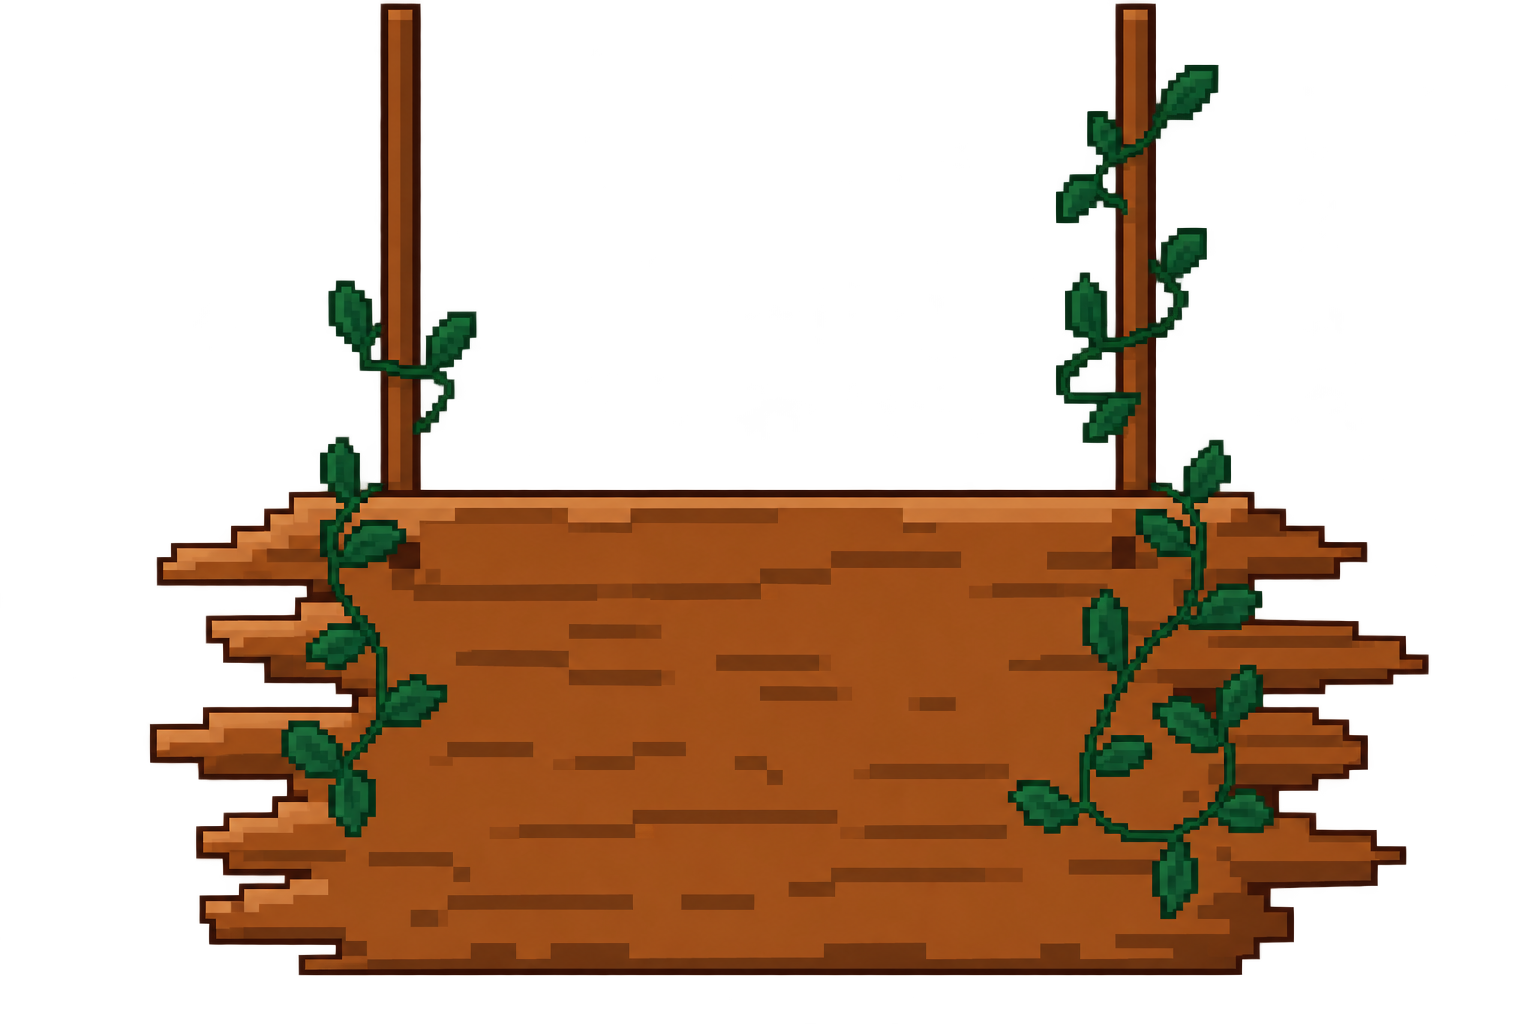
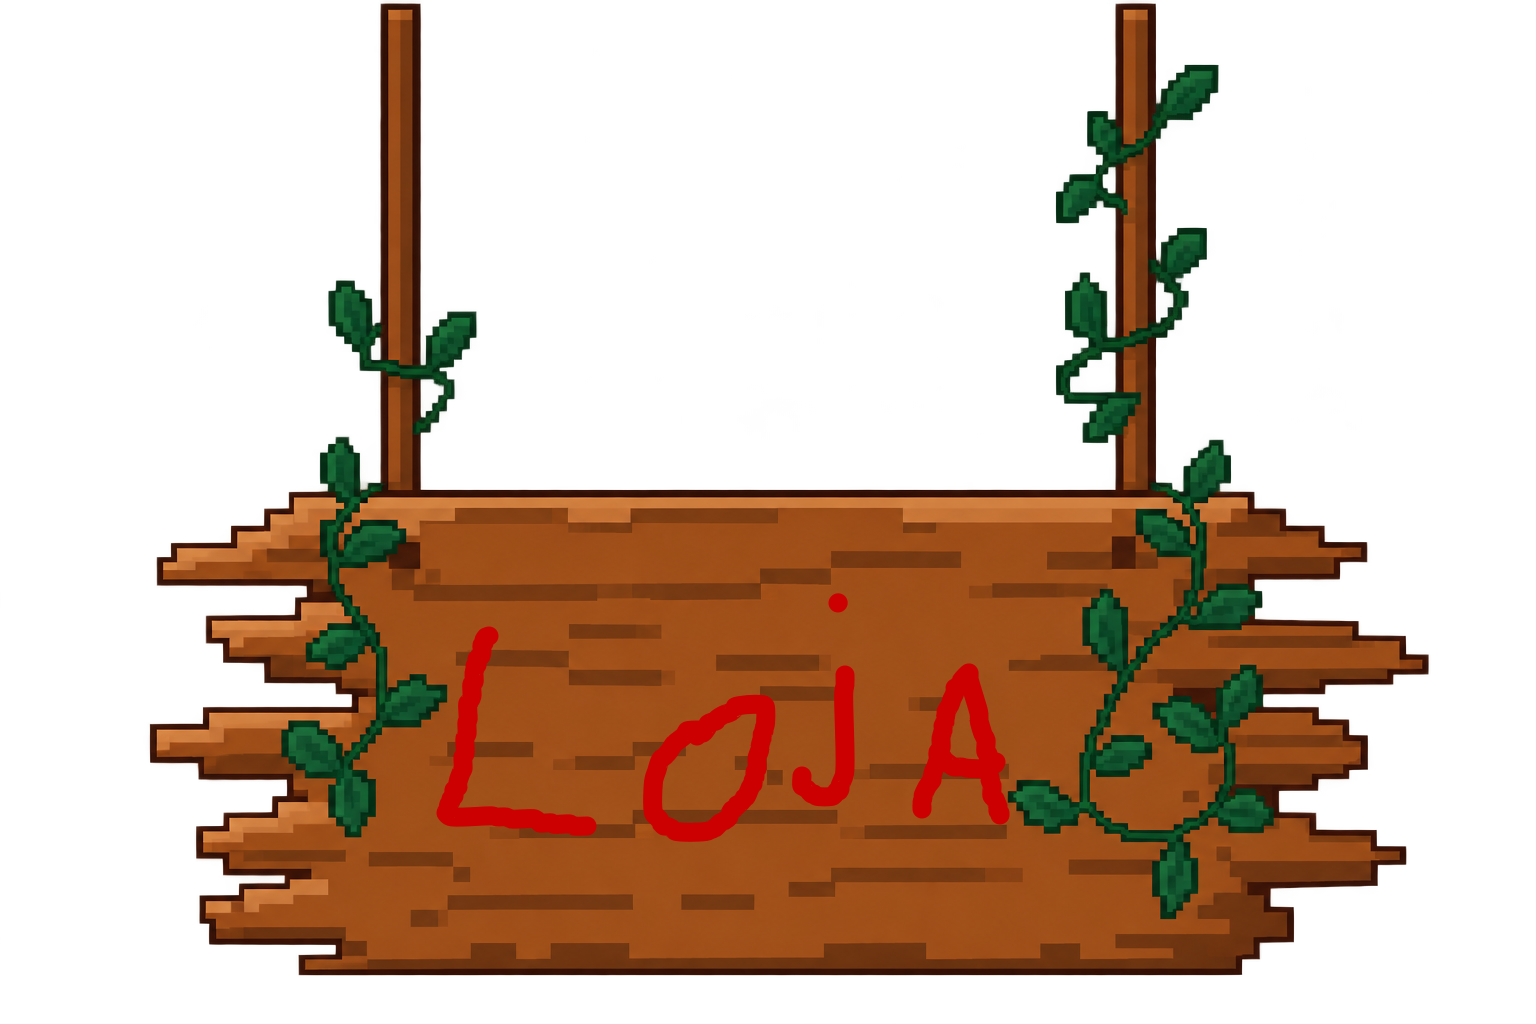
feat(loja): update layout and functionality for money display and cart management

Changed region(s): [[0.2812, 0.5938, 0.5625, 0.8438], [0.5938, 0.6562, 0.6562, 0.8125], [0.5312, 0.5625, 0.5625, 0.5938]]

diff --git a/frontend/js/entities/view/LojaView.js b/frontend/js/entities/view/LojaView.js
@@ -1,41 +1,42 @@
-import Produto from "../Produto.js";
+import Produto from "../Produto.js";
 
 export default class LojaView {
     #produtos;
     #carrinho;
     #dinheiroUsuario;
+    #valorCarrinho;
 
     constructor(loja_id, dinheiro) {
-        this.inicializar(loja_id);
         this.#dinheiroUsuario = dinheiro;
+        this.inicializar(loja_id);
     }
 
     async inicializar(id) {
         this.#produtos = await Produto.listaProdutosByLojaId(id);
         this.carregarMercadoria();
-        this.#carrinho = []
+        this.#carrinho = [];
+        this.#valorCarrinho = 0;
 
-        document.getElementById('dinheiro').innerHTML = `
-                <div>
-                    <p>
-                        ${this.#dinheiroUsuario}
-                    </p>
-                </div>
-                <img src="../../../images/moeda.png" class="moedaIcon" alt="Moedas">`
-
+        document.getElementById('dinheiro').innerHTML =  this.#dinheiroUsuario;
         this.#produtos.forEach(produto => {
             document.getElementById(`produto-${produto.id}`).addEventListener("click", () => {
                 this.#carrinho.push(produto.id);
-                console.log(this.#carrinho)
+                this.#valorCarrinho += produto.preco;
+                this.atualizarValorCarrinho();
+                console.log(this.#valorCarrinho);
+                console.log(this.#carrinho);
             });
         });
 
         document.querySelector("#botaoLimpar button").addEventListener("click", () => {
-            this.#carrinho = [];
+            this.limparCarrinho()
         })
 
         document.querySelector("#botaoComprar button").addEventListener("click", () => {
             Produto.comprar(this.#carrinho);
+            this.#dinheiroUsuario -= this.#valorCarrinho;
+            this.limparCarrinho();
+            document.getElementById('dinheiro').innerHTML = this.#dinheiroUsuario
         })
     }
 
@@ -66,4 +67,23 @@ export default class LojaView {
             </div>
         `;
     }
+
+    limparCarrinho(){
+        this.#carrinho = [];
+        this.#valorCarrinho = 0;
+        this.atualizarValorCarrinho();
+    }
+
+    atualizarValorCarrinho() {
+        let local = document.querySelector("#valorCarrinho span");
+        local.innerHTML = this.#valorCarrinho;
+
+        if (this.#valorCarrinho > this.#dinheiroUsuario){
+            local.style.color = 'red';
+        }
+        else {
+            local.style.color = 'white';
+        }
+    }
+
 }

diff --git a/frontend/css/loja.css b/frontend/css/loja.css
@@ -13,11 +13,15 @@ body {
 
 main {
     display: flex;
-    position: relative;
+    position: absolute;
+    top: 50%;
+    left:50%;
+    transform: translate(-50%,-50%);
     background-image: url(../images/background/background.png);
     background-size: cover;
     height: var(--main-height);
     width: var(--main-width);
+    border-radius: 6px;
 }
 
 h3 {
@@ -182,7 +186,7 @@ h3 {
     transform: scale(1.05);
 }
 
-#dinheiro {
+#dinheiroContainer {
     display: flex;
     align-items: center;
     gap: 4px;
@@ -190,15 +194,25 @@ h3 {
     top: 16px;
     right: 16px;
 }
-#dinheiro > div {
+#dinheiroContainer > div {
     text-align: end;
     width: 100px;
     height: 20px;
 }
-#dinheiro p {
+#dinheiroContainer p {
     margin: 0;
 }
 
-#dinheiro img {
+#dinheiroContainer img {
     flex-shrink: 0;
 }
+
+#valorCarrinho{
+    display: flex;
+    align-items: center;
+    gap: 4px;
+    position: absolute;
+    bottom: 16px;
+    right: 16px;
+}
+

diff --git a/frontend/pages/loja.html b/frontend/pages/loja.html
@@ -20,12 +20,17 @@
         </div>  
         </div>
         <div id="principal">
-            <div id="dinheiro"></div>
+            <div id="dinheiroContainer">
+                <p id="dinheiro"></p>
+                <img src="../../../images/moeda.png" class="moedaIcon" alt="Moedas">
+            </div>
             <div id="mesa"></div>
         </div>
+        <div id="valorCarrinho">
+            Carrinho:<span>0</span>
+            <img src="../../../images/moeda.png" class="moedaIcon" alt="Moedas">
+        </div>
     </main>
-    <script type="module" src="../js/pages/loja.js">
-        
-    </script>
+    <script type="module" src="../js/pages/loja.js"></script>
 </body>
 </html>
